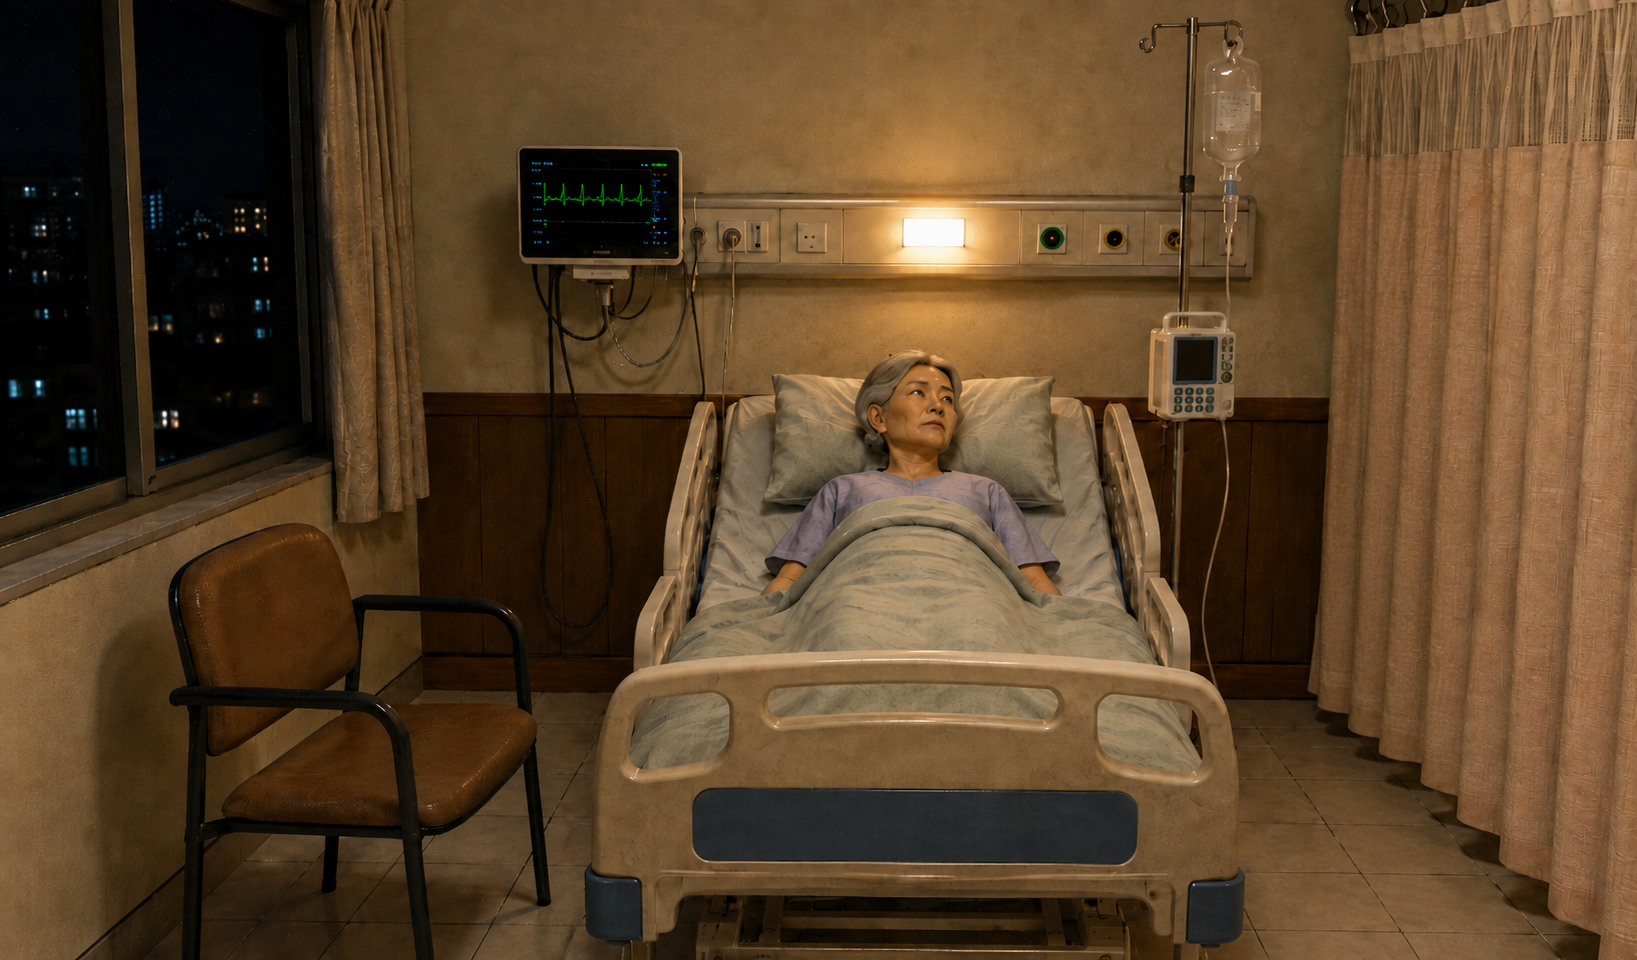
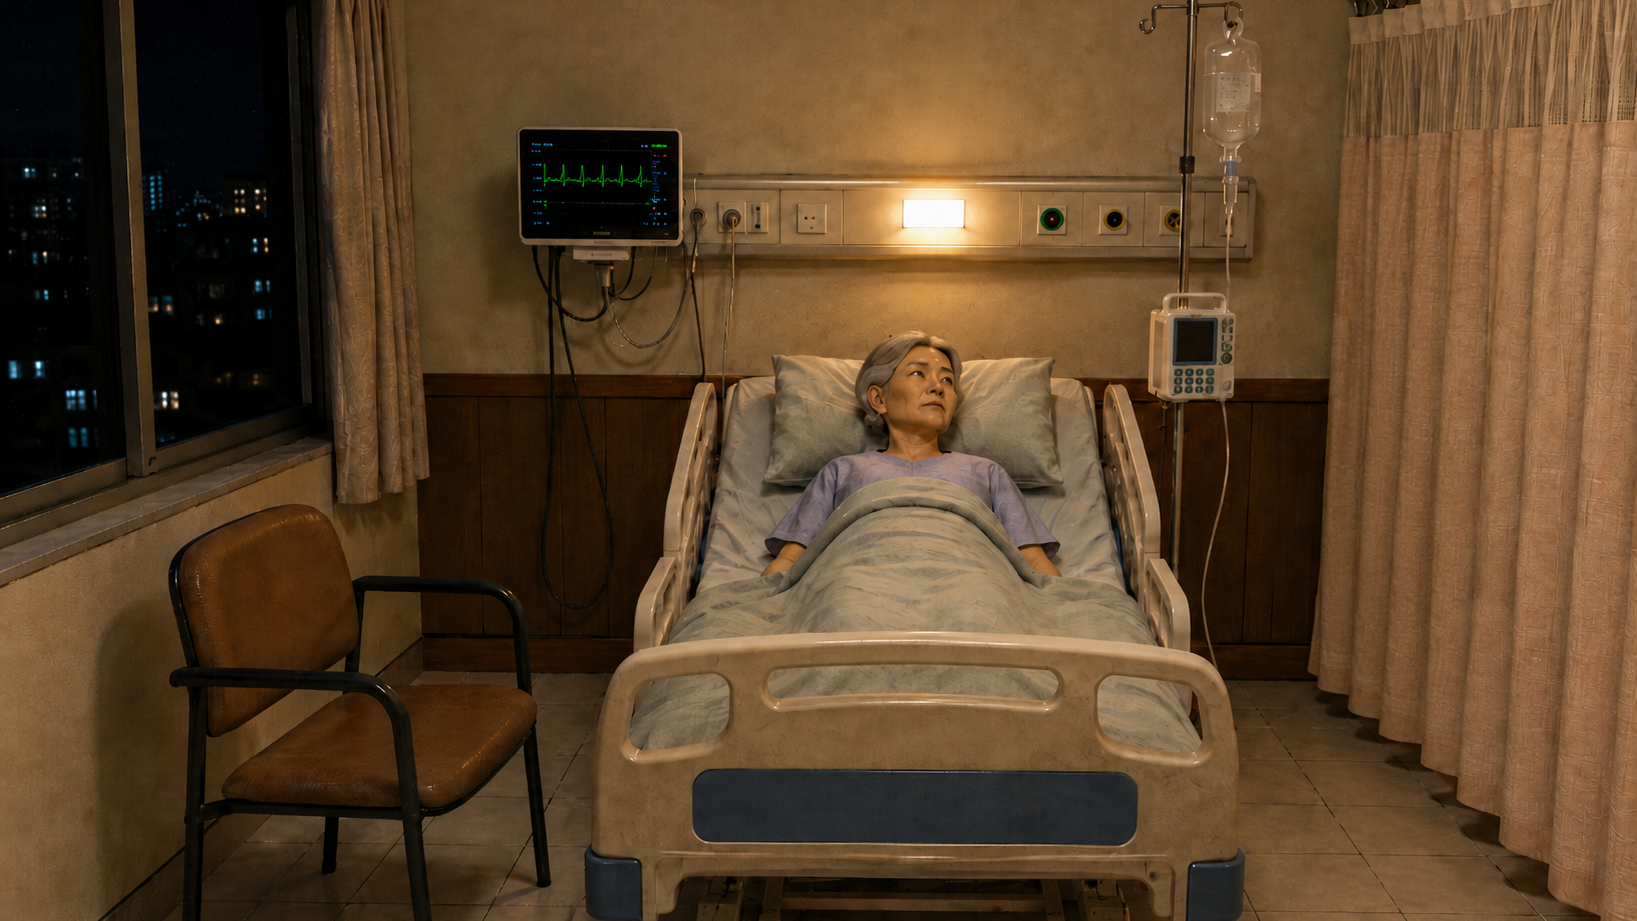
修三個playtest回報:圖片跳動/餵食選項消失/離開醫院沒回門口
1. 醒著版背景圖裁到跟原圖同一個長寬比(1280:720)——原本 1637x960
   (1.705)硬拉伸貼進 1280x720(1.778)畫布會橫向多拉伸一截,兩張圖切換
   時房間比例明顯不一樣,感覺在跳動。裁掉上下各一截差額,兩張現在都是
   1.778 長寬比,拉伸量一致。

2. 「餵她吃東西」原本綁 FOOD.length(超商結帳才會有的隨身庫存),沒買過
   東西的玩家看不到這個選項,kc 以為壞掉。改成花 $30 當場買,跟隨身食物
   庫存脫鉤,永遠顯示,錢不夠才擋(cls:'bad' 標記+點下去用 toast 擋)。

3. goToHospital()(day16 電話那條路)原本回程送回「電話響起那一刻站的
   位置」——這通電話設計成「不管人在哪都追得到」,原位置可能在城市任何
   角落,跟醫院無關。改成固定送回醫院大門口(city.doors 找 id==='hospital'),
   離開自然還在門口,跟平常探望 visitGrandma() 同一個邏輯。

瀏覽器裡驗證過餵食選項現在永遠顯示、金錢不夠時樣式變灰,console 沒有
錯誤。

Claude-Session: https://claude.ai/code/session_01DTcU6YjEZ8QMzLEW4x9Ucp

diff --git a/prototypes/game.html b/prototypes/game.html
@@ -8204,8 +8204,18 @@ function goToHospital(){
   /* WATCHJOB 進行中(2026-09-03)——玩家人在固定的盯梢點(見
      startWatchJob() 那則筆記),不是「當下位置」,不能覆蓋掉
      startWatchJob() 已經存好的接任務地點,否則回程會被送去盯梢點
-     (中華路附近)而不是玩家真正出發的地方。 */
-  if(MODE === 'city' && !WATCHJOB.active){ returnTo.x = hero.group.position.x; returnTo.z = hero.group.position.z; }
+     (中華路附近)而不是玩家真正出發的地方。
+     2026-09-04,kc:「醫院出來就要出現在醫院門口」——這通電話「不管玩家
+     人在哪都要追得到」(見上面「阿嬤在醫院」長筆記③),觸發當下玩家可能
+     人在學校、廟口、任何地方,原本回程直接送回「電話響起那一刻站的
+     位置」,跟醫院完全無關,不是 kc 要的。改成固定送回醫院大門口
+     (city.doors 找 id==='hospital' 那個門的座標),跟平常探望
+     visitGrandma() 進去前也是站在門口同一個邏輯,離開自然還在門口。 */
+  if(MODE === 'city' && !WATCHJOB.active){
+    const hd = city.doors.find(d => d.id === 'hospital');
+    if(hd){ returnTo.x = hd.x; returnTo.z = hd.z; }
+    else { returnTo.x = hero.group.position.x; returnTo.z = hero.group.position.z; }
+  }
   enterHospital();
 }
 function enterHospital(){
@@ -8325,26 +8335,35 @@ function visitGrandma(){
    一顆「先出去」,感覺像壞掉。加一個「陪她坐一下」,永遠都在,再抽一句
    （不計入 visits，那個只在真正走進來那一刻算），讓玩家有事可做，不是
    進來看一句就只能走。 */
+/* 2026-09-04,kc:「任務觸發後 我為何不能選擇給啊罵食物」——原本「餵她
+   吃東西」綁 FOOD.length(玩家隨身食物庫存,超商結帳才會有),早期/沒去
+   買過東西的玩家 FOOD 是空的,選單直接看不到這個選項,kc 以為是壞掉。
+   改成花錢當場買(跟隨身 FOOD 庫存脫鉤),永遠顯示,錢不夠才擋——這個
+   互動本來就該獨立於「玩家自己有沒有囤食物」,不是同一件事。 */
+const GRANDMA_FEED_COST = 30;
 function grandmaVisitLine(){
   const awake = Math.random() < GRANDMA_AWAKE_CHANCE;
   paintHospitalBackdrop(awake);   // 清醒/昏迷各換一張背景照片，見上面 hospitalRoomAwakeImg 那則筆記
   const pool = awake ? GRANDMA_AWAKE_LINES : GRANDMA_ASLEEP_LINES;
   say(awake ? 'granny' : 'pc', pool[Math.floor(Math.random()*pool.length)], () => {
-    const opts = [ { label:'陪她坐一下', run: grandmaVisitLine } ];
-    if(FOOD.length) opts.push({ label:'餵她吃東西', run: feedGrandma });
-    opts.push({ label:'先出去', cls:'back', run: leaveIndoor });
+    const opts = [
+      { label:'陪她坐一下', run: grandmaVisitLine },
+      { label:'餵她吃東西', cost:'$'+GRANDMA_FEED_COST, cls: ST.money<GRANDMA_FEED_COST?'bad':'', run: feedGrandma },
+      { label:'先出去', cls:'back', run: leaveIndoor }
+    ];
     openMenu('探望阿嬤', opts);
   });
 }
 function feedGrandma(){
-  FOOD.splice(0, 1);   // 拿隨身第一份食物餵她，不特別挑品項
+  if(ST.money < GRANDMA_FEED_COST){ toast('身上的錢不夠買東西給阿嬤吃。', 2200); return; }
+  chg('money', -GRANDMA_FEED_COST);
   if(GRANDMA.critical){ GRANDMA.feeds++; updateGrandmaQuestHint(); }
   paintHospitalBackdrop(true);   // 餵食當下算清醒，換清醒那張背景
 
   /* 2026-09-04,kc:「獲得五百塊 對話框要提示」同一條規則——提示改寫進
      這句台詞本身,不再另外跳 toast。餵完不強制離開,回到 grandmaVisitLine()
      選單，跟「陪她坐一下」同一套，玩家自己決定要不要繼續留著。 */
-  say('pc', GRANDMA_FEED_LINES[Math.floor(Math.random()*GRANDMA_FEED_LINES.length)] + '（歸屬感 +3）', () => {
+  say('pc', GRANDMA_FEED_LINES[Math.floor(Math.random()*GRANDMA_FEED_LINES.length)] + `（金錢 -${GRANDMA_FEED_COST}，歸屬感 +3）`, () => {
     chg('calm', 3);
     grandmaVisitLine();
   });
